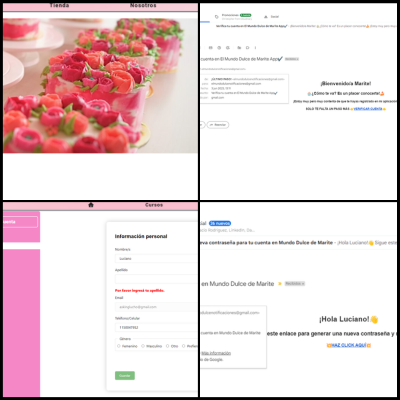
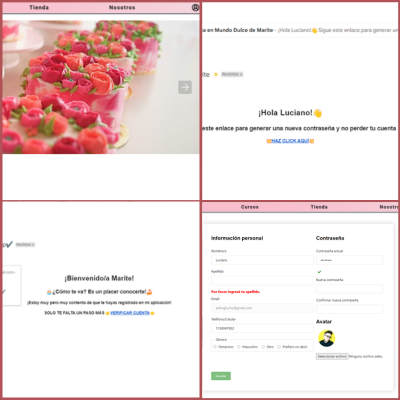
update: img-proyect, links without text-decoration and center profile image

diff --git a/style.css b/style.css
@@ -391,6 +391,12 @@ progress::-moz-progress-value{
     width: 250px;
 }
 
+.section-article-img{
+    display: flex;
+    justify-content: center;
+    align-items: center;
+}
+
 .text-center{
     text-align: center;
 }
@@ -552,6 +558,10 @@ grid-auto-rows: 2rem;
 
 .portfolio-details b{
     color: var(--first-color);
+}
+
+.portfolio-details a{
+    text-decoration: none;
 }
 .service-card{
     margin: 1rem auto;

diff --git a/index.html b/index.html
@@ -117,11 +117,11 @@
           >
         </div>
       </article>
-      <article>
+      <article class="section-article-img">
         <img
           class="gray-scale"
           src="assets/Foto de perfil.jpg"
-          alt="LuchoNavarro"
+          alt="Foto de perfil de Luciano Navarro"
         />
       </article>
       <article>
